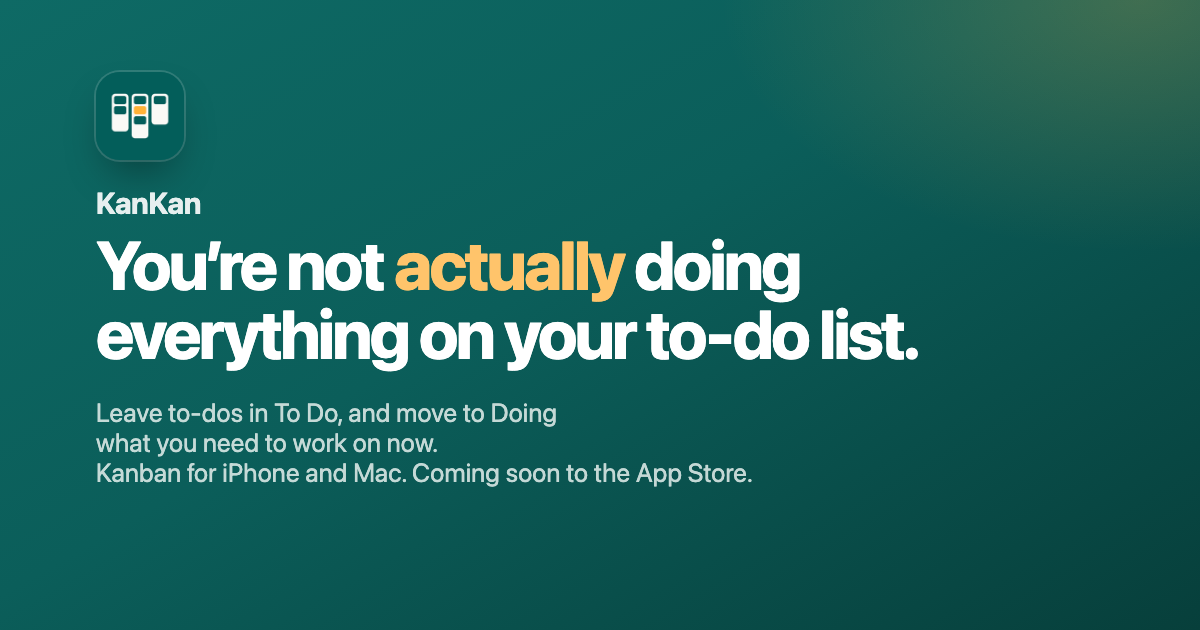
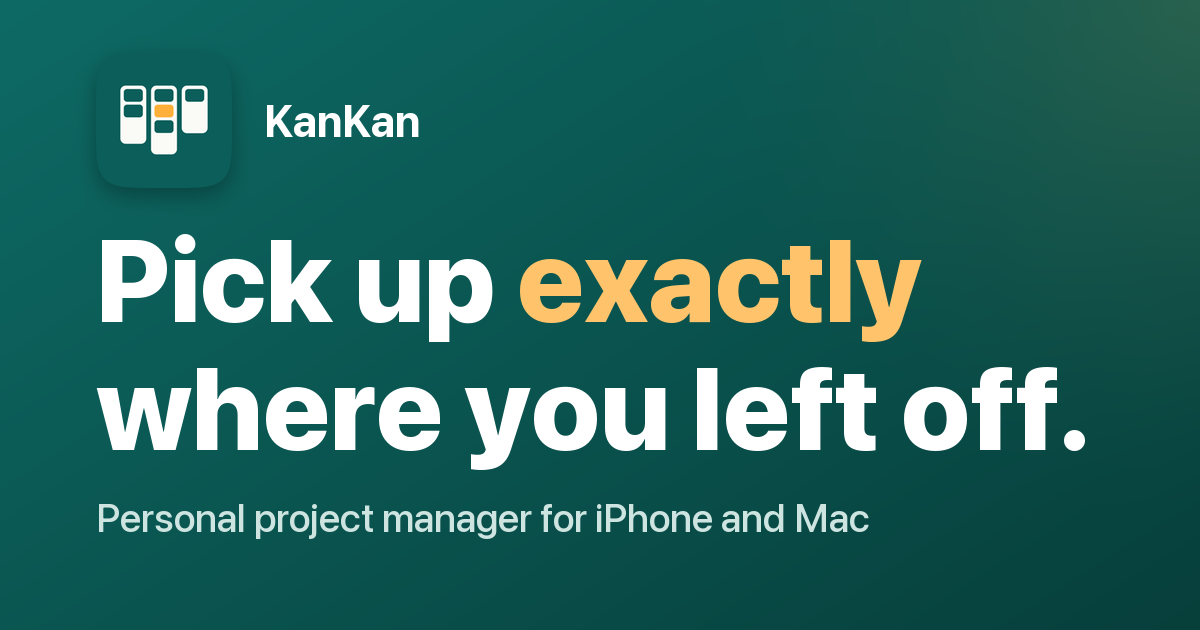
Link preview image with the new headline

diff --git a/index.html b/index.html
@@ -18,16 +18,15 @@
 <meta property="og:url" content="https://getkankan.com/">
 <meta property="og:title" content="KanKan: pick up exactly where you left off">
 <meta property="og:description" content="A personal project manager for iPhone and Mac. Every card keeps a log of what you did, so unfinished work is easy to continue. Coming soon to the App Store.">
-<!-- RECAPTURE: og-image.png still shows the old headline ("You're not actually doing everything on your to-do list"). Make a new one with the new headline; then update both image alt texts below. -->
 <meta property="og:image" content="https://getkankan.com/og-image.png">
 <meta property="og:image:width" content="1200">
 <meta property="og:image:height" content="630">
-<meta property="og:image:alt" content="The KanKan app icon and the words: You&rsquo;re not actually doing everything on your to-do list.">
+<meta property="og:image:alt" content="The KanKan app icon, the headline &ldquo;Pick up exactly where you left off.&rdquo; and the line: Personal project manager for iPhone and Mac.">
 <meta name="twitter:card" content="summary_large_image">
 <meta name="twitter:title" content="KanKan: pick up exactly where you left off">
 <meta name="twitter:description" content="A personal project manager for iPhone and Mac. Every card keeps a log of what you did, so unfinished work is easy to continue.">
 <meta name="twitter:image" content="https://getkankan.com/og-image.png">
-<meta name="twitter:image:alt" content="The KanKan app icon and the words: You&rsquo;re not actually doing everything on your to-do list.">
+<meta name="twitter:image:alt" content="The KanKan app icon, the headline &ldquo;Pick up exactly where you left off.&rdquo; and the line: Personal project manager for iPhone and Mac.">
 <link rel="stylesheet" href="style.css">
 <script src="js/video.js" defer></script>
 </head>
